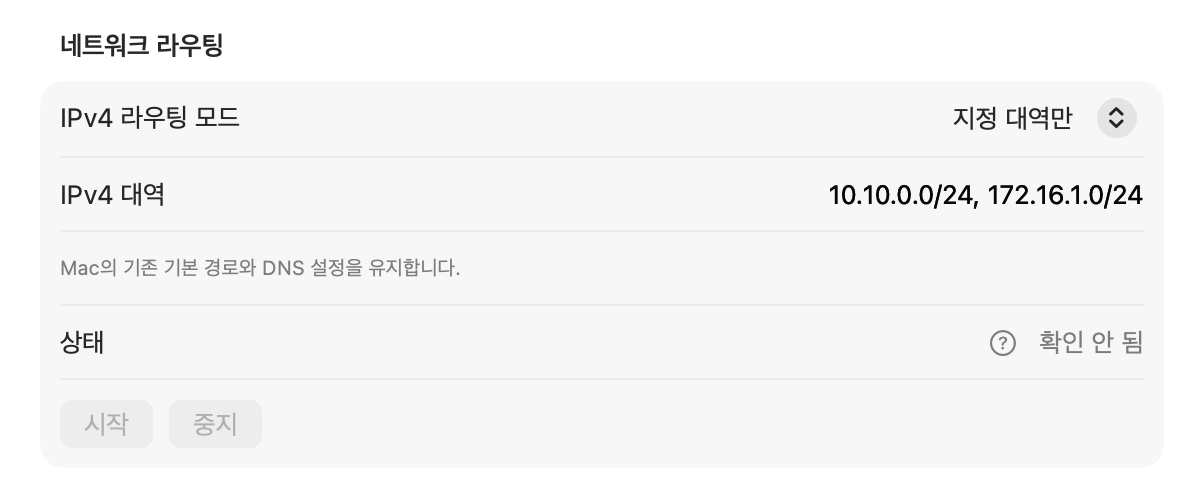
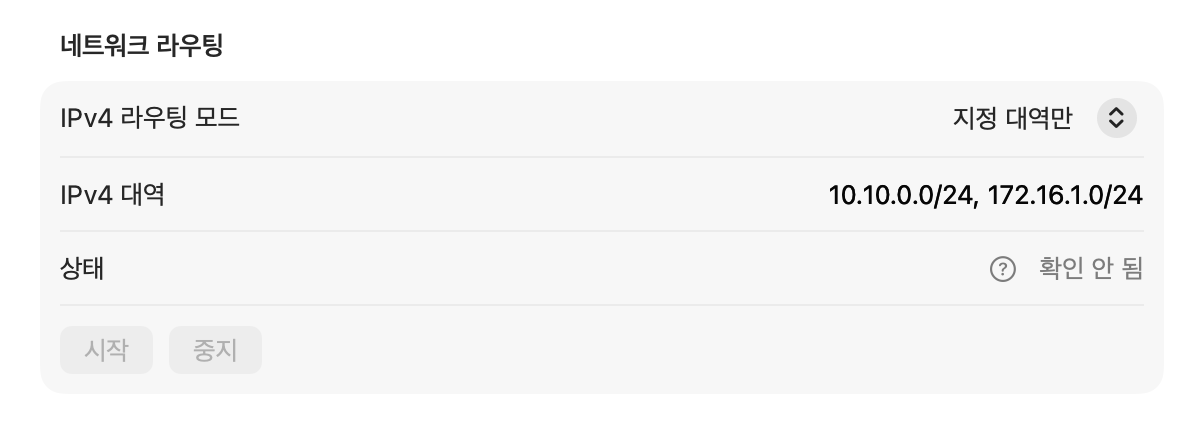
fix(settings): 지정 대역 모드의 기본 경로 및 DNS 안내 문구 제거

diff --git a/ThruRNDIS/Views/Settings/NetworkRouteView.swift b/ThruRNDIS/Views/Settings/NetworkRouteView.swift
@@ -51,10 +51,6 @@ struct NetworkRouteView: View {
                         Text(error)
                             .foregroundStyle(.red)
                             .font(.caption)
-                    } else {
-                        Text("Your Mac keeps its existing default route and DNS settings.")
-                            .foregroundStyle(.secondary)
-                            .font(.caption)
                     }
                 }
                 if networkRoute.snapshot?.state == .active || networkRoute.snapshot?.state == .degraded {
